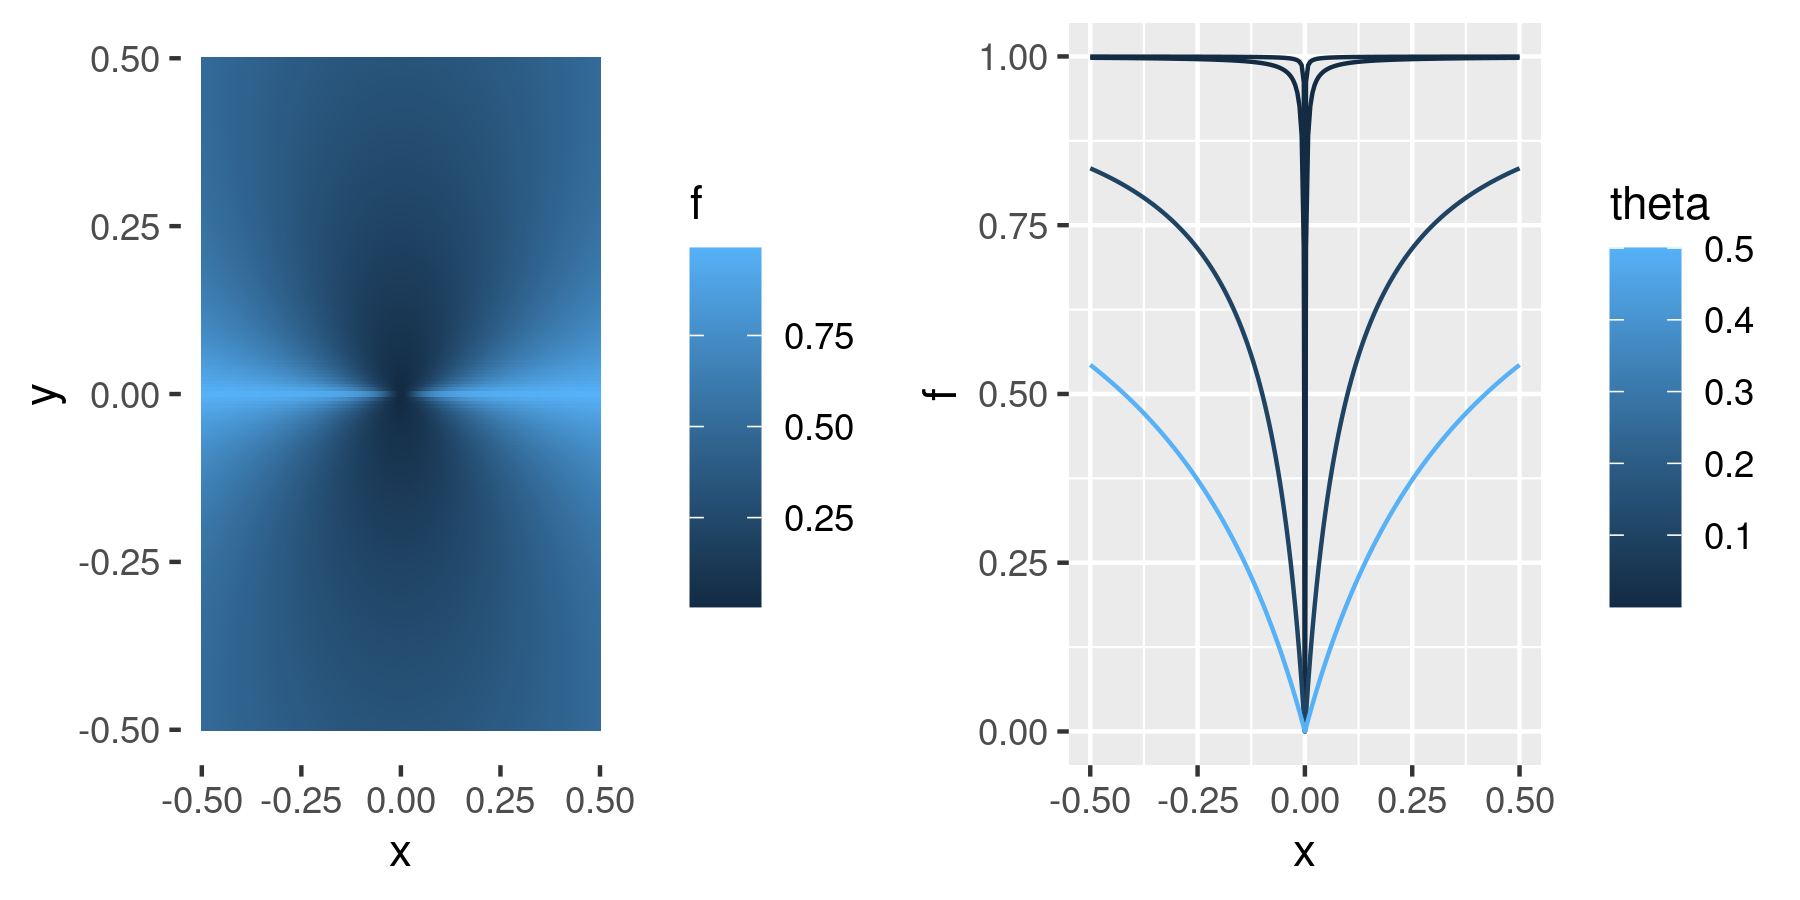
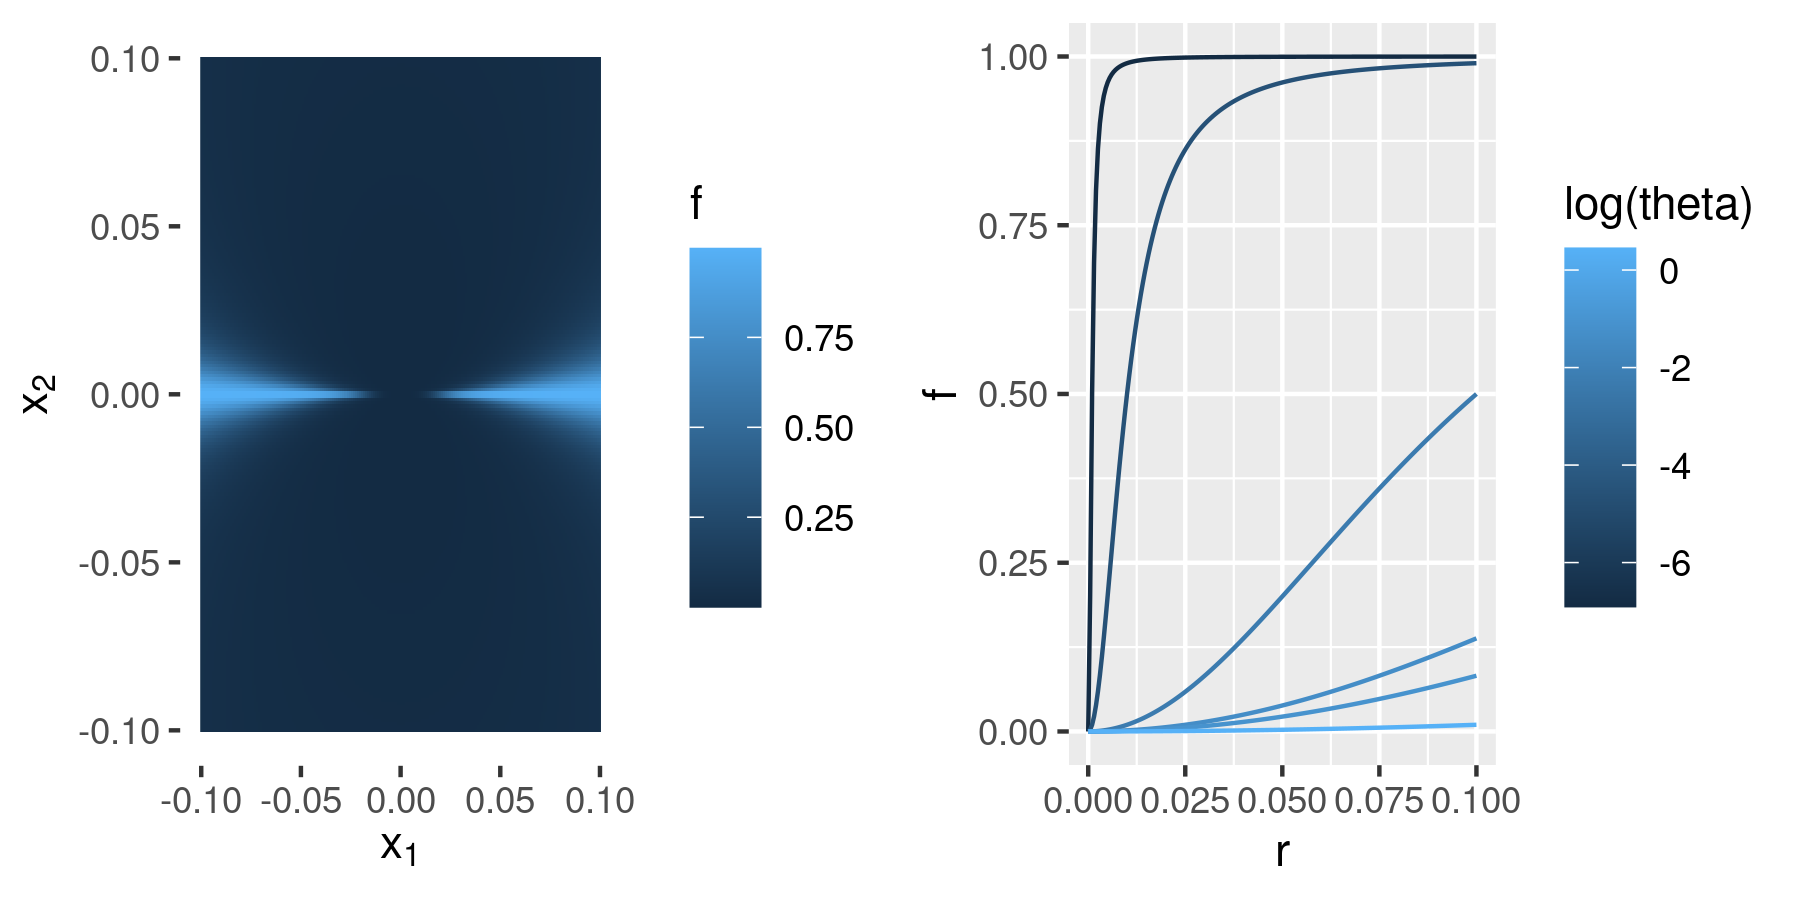
functional example

diff --git a/writing/journal_paper/other_norms.tex b/writing/journal_paper/other_norms.tex
@@ -98,7 +98,8 @@ Consider $(x_1, x_2) \in \mathbb{R}^2$ and the polar coordinates $r :=
 \begin{align*}
 %
 f(r, \theta) := \begin{cases}
-\frac{r / | \sin \theta |}{1 + r / | \sin \theta |}
+\frac{\left(\frac{r}{| \sin \theta |}\right)^2}
+     {1 + \left(\frac{r}{| \sin \theta |}\right)^2}
     & \textrm{when } \theta \notin \{\pi k: k \in \mathbb{Z}\}
     \textrm{ and } r > 0 \\
 0. & \textrm{when } \theta \in \{\pi k: k \in \mathbb{Z}
@@ -107,23 +108,6 @@ f(r, \theta) := \begin{cases}
 \end{cases}
 %
 \end{align*}
-%
-Then $f$ has a directional derivative in every direction, but is not Fr{\'e}chet
-differentiable.
-%
-\begin{proof}
-%
-By ordinary calculus, for any $\theta$, $\fracat{\partial f(r, \theta)}{\partial
-r}{r=0} = 0$, so the linear approximation to $f(r, \theta)$ at $r=0$ is
-identically zero.  However, for any $r$, there exists a $\theta(r)$ such that
-$r / |\sin(\theta(r))| = 1$.  For such a choice of $\theta(r)$, the error in
-the linear approximation is $f(r, \theta(r)) - 0 = 1/2$, which does not go
-to zero as $r \rightarrow 0$.
-%
-\end{proof}
-%
-\end{ex}
-%%%%%%%%%%%%%%%%%%%%%%%%%%%%%%%%%%%%%%%%%%%%%%%%%%%%%%%%%%%%%%%%%%%%%%%%%
 %
 %%%%%%%%%%%%%%%%%%%%%%%%%%%%%%%%%%%%%%%%%%%%%%%%%%%%%%%%%%%%%%%%%%%%%%%%%
 %%%%%%%%%%%%%%%%%%%%%%%%%%%%%%%%%%%%%%%%%%%%%%%%%%%%%%%%%%%%%%%%%%%%%%%%%
@@ -134,20 +118,133 @@ to zero as $r \rightarrow 0$.
 \centering
 \end{figure}
 %%%%%%%%%%%%%%%%%%%%%%%%%%%%%%%%%%%%%%%%%%%%%%%%%%%%%%%%%%%%%%%%%%%%%%%%%
+%
+\Figref{r2_pathological} contains a plot of $f(r, \theta)$, both over
+$\mathbb{R}^2$ and along paths for particular choices of $\theta$.
+
+Then $f$ has a directional derivative in every direction, but is not Fr{\'e}chet
+differentiable. By ordinary calculus, for any $\theta$, $\fracat{\partial f(r,
+\theta)}{\partial r}{r=0} = 0$, so the linear approximation to $f(r, \theta)$ at
+$r=0$ is identically zero.  However, for any $r$, there exists a $\theta(r)$
+such that $r / |\sin(\theta(r))| = 1$.  For such a choice of $\theta(r)$, the
+error in the linear approximation is $f(r, \theta(r)) - 0 = 1/2$, which does not
+go to zero as $r \rightarrow 0$.
+
+Note that the second derivative in a particular direction is given by
+$\fracat{\partial^2 f(r, \theta)}{\partial r^2}{r=0} = \frac{1}{2 |\sin
+\theta|}$, which can be made arbitrarily large by taking $\theta$ close to $0$
+or to $\pi$.  We could modify $f(r, \theta)$ to be Fr{\'e}chet differentiable
+by smoothly ``capping'' $1 / |\sin \theta|$ at some arbitrarily large value.
+However, the ability to meaningfully extrapolate $f(r, \theta)$ in the direction
+of a very large but finite second derivative will still be extremely limited. In
+this sense, Fr{\'e}chet differentiability is a weak necessary but not sufficient
+requirement if we are interested in extrapolating using linear approximations.
+
+Note also that $f(r, \theta)$ is disccontinuous at $r=0$.  It turns out that
+this is not essential to the example; see \citet[Example
+1.9]{averbukh:1967:theory} for an (only slightly more complicated) example of a
+function on $\mathbb{R}^2$ that is continuous and directionally differentiable
+but not Fr{\'e}chet differentiable at $r=0$.  Hence continuity does not imply
+Fr{\'e}chet differentiability.  However, the converse is true: Fr{\'e}chet
+differentiability implies continuity.
+
+\end{ex}
+%%%%%%%%%%%%%%%%%%%%%%%%%%%%%%%%%%%%%%%%%%%%%%%%%%%%%%%%%%%%%%%%%%%%%%%%%
 
 
 
-See \figref{r2_pathological} for a plot of \exref{r2_pathological}.
+A similar example that is more directly relevant is the following.
+
+%%%%%%%%%%%%%%%%%%%%%%%%%%%%%%%%%%%%%%%%%%%%%%%%%%%%%%%%%%%%%%%%%%%%%%%%%
+%%%%%%%%%%%%%%%%%%%%%%%%%%%%%%%%%%%%%%%%%%%%%%%%%%%%%%%%%%%%%%%%%%%%%%%%%
+\begin{ex}
+%
+Let $\q(\zeta)$ be a density relative to the Lebesge measure on $[0,1]$.
+Define $f: \lp{p} \mapsto \mathbb{R}$ with $1 \le p < \infty$ as follows:
+%
+\begin{align*}
+%
+f(\phi) :=
+\begin{cases}
+    %
+    \expect{\q(\zeta)}{\log \left(1 + \phi(\zeta)\right)} &
+    \textrm{when }\phi(\zeta) > -1\textrm{ almost surely} \\
+    %
+    0 & \textrm{otherwise}.
+%
+\end{cases}
+%
+\end{align*}
+%
+Then, at $\phiz$,  $f(\phi)$ has a directional derivative for every $\phi$, but
+is discontinous in $\norm{\cdot}_p$ and so not Fr{\'e}chet differentiable, as
+we now show.
+
+For any $0 < \epsilon < 1$, let $S_\epsilon \subset [0, 1]$ be a measurable set
+with Lebesgue measure $\epsilon$ and probability at least $\epsilon$ under
+$\q(\zeta)$ (such a set must exist because $\int_0^1 \q(\zeta) d\zeta = 1$). For
+$\delta > 0$ let
+%
+\begin{align*}
+%
+\phi(\zeta; \epsilon, \delta) :=
+\begin{cases}
+    %
+    \delta - 1      & \textrm{ for }\zeta\in S_\epsilon \\
+    0      & \textrm{ for }\zeta\notin S_\epsilon.
+    %
+\end{cases}
+%
+\end{align*}
+%
+Then $\phi(\zeta; \epsilon, \delta) \in \lp{p}$ with $\norm{\phi(\cdot;
+\epsilon, \delta)}_p = (\int_0^1 \phi(\zeta)^p d\zeta)^{1/p} =\epsilon^{1/p}
+(\delta - 1)$.  Furthermore,
+%
+\begin{align*}
+%
+\abs{f(\phi(\zeta; \epsilon, \delta))} ={}&
+    \expect{\q(\zeta)}{\ind{\zeta \in S_\epsilon}} \abs{\log(\delta)} \ge
+    \epsilon \abs{\log(\delta)}.
+%
+\end{align*}
+%,
+Take $\delta(\epsilon) = \exp(-\epsilon)$.  Then, for any sequence $\epsilon_n
+\rightarrow 0$,
+%
+\begin{align*}
+%
+\abs{f(\phi(\zeta; \epsilon_n, \delta(\epsilon_n))) - f(\phiz)} \ge{}& 1\\
+\norm{\phi(\cdot; \epsilon_n, \delta(\epsilon_n))}_p \rightarrow{}& 0.
+%
+\end{align*}
+%
+So $f$ is discontinuous on an $\norm{\cdot}_p$ ball containing $\phiz$, and
+cannot be Fr{\'e}chet differentiable.
+
+However, the directional derivative exists in any direction (does it?). First,
+suppose that $\inf_{\zeta} \phi(\zeta) = -\infty$.  Then $\inf_{\zeta} t
+\phi(\zeta) = -\infty$ for any $t > 0$, so $f(t\phi) = 0$ for all $t$, and
+$\lim_{t \rightarrow 0} (f(t \phi) - f(\phiz)) / t = \lim_{t \rightarrow 0} 0 =
+0$.
+
+If $-\infty < \inf_\zeta \phi(\zeta) \le \sup_\zeta < \infty$, i.e.
+if $\phi$ is bounded, then by the dominated convergence theorem,
+%
+\begin{align*}
+%
+\fracat{\partial f(t \phi)}{\partial t}{t=0} =
+    \expect{q(\zeta)}{\phi(\zeta)}.
+%
+\end{align*}
+%
+
+If $-\infty < \inf_\zeta \phi(\zeta)$ but $\sup_\zeta \phi(\zeta) = \infty$,
+then can we apply the DCT?
+%
 
 
-Another example is \citet[Example 1.9]{averbukh:1967:theory}.
 
 
--------------------
-
-The above example is not the best.  What we want to say is that if a function is
-Frechet differentiable then it is continuous.  (Zeidler Proposition 4.5 (d)). It
-is possible to define discontinuous functions whose Gateaux derivatives exist.
-And this is what we are worried about.  For this, a simpler R2 example will
-suffice.  And we can use the function $\expect{\q(\theta)}{\log(1 +
-\phi(\theta))}$ with the L2 norm as an example, which is perfect.
+\end{ex}
+%%%%%%%%%%%%%%%%%%%%%%%%%%%%%%%%%%%%%%%%%%%%%%%%%%%%%%%%%%%%%%%%%%%%%%%%%

diff --git a/writing/journal_paper/_math_defs.tex b/writing/journal_paper/_math_defs.tex
@@ -94,6 +94,7 @@
 \def\thetadom{\Omega_{\theta}}
 \def\tdom{\Omega_{\t}}
 \def\linf{{L_{\infty}[0,1]}}
+\def\lp#1{{L_{#1}[0,1]}}
 \def\ball{\mathcal{B}}
 
 % Annotations
